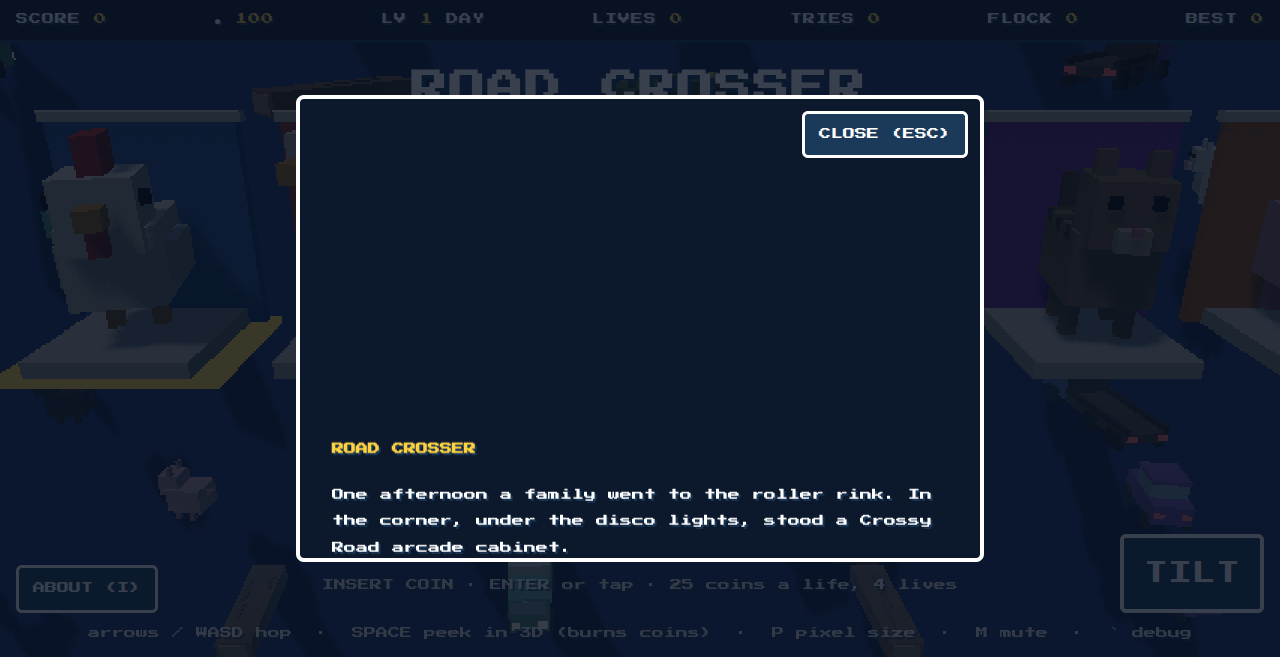
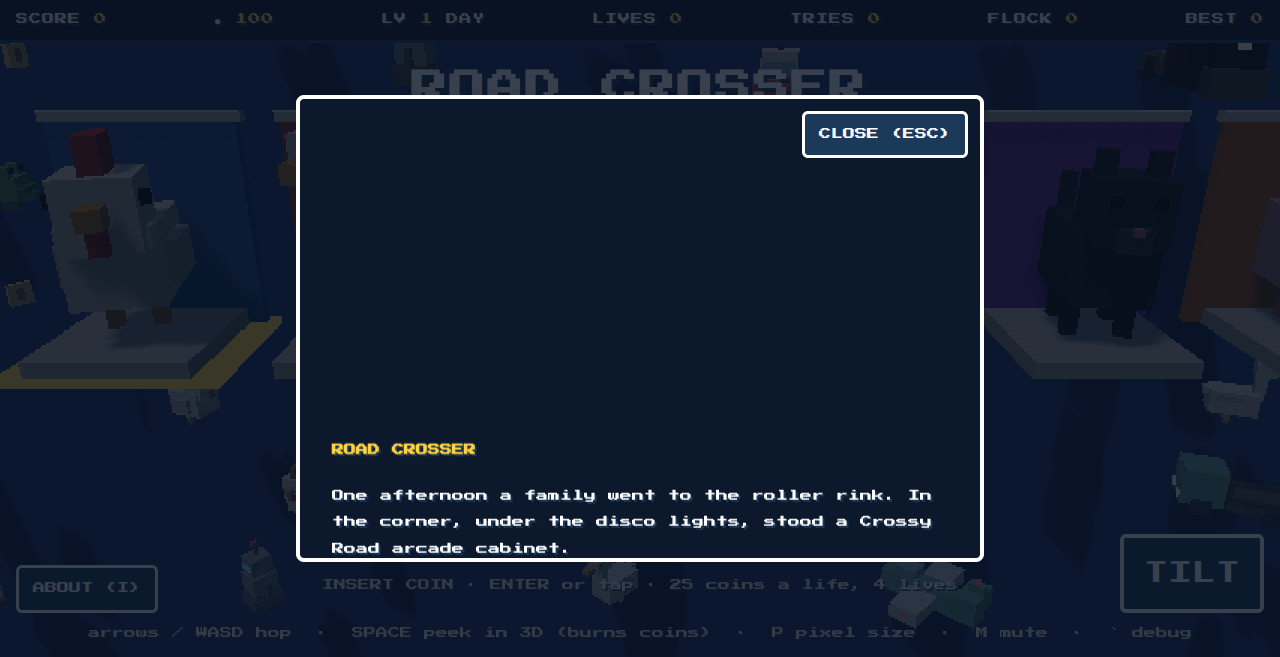
Ground rows span 120 units so tilted views never see past the edge; repeated details bounded to the middle 60

diff --git a/src/scenarios/runway.js b/src/scenarios/runway.js
@@ -3,7 +3,7 @@
 // in from height and roll out. A plane only kills while it is on or near the
 // ground, so a lifting or descending one passes overhead (watch its shadow).
 import { box, makePlane, makeHeadlightCone } from '../meshes.js';
-import { W, SPAN, GW } from '../lane.js';
+import { W, SPAN, DETAIL_W } from '../lane.js';
 import { registerDeath } from '../deaths.js';
 import { CONE } from '../headlights.js';
 import { rand, randInt, pick } from '../util.js';
@@ -46,9 +46,9 @@ export default {
   flank: ['meadow', 'road', 'road', 'river'],   // wings need flat rows either side
   build(lane, { prev, sky, difficulty, gauntlet, level }) {
     lane.ground(0x3e3e46);
-    for (let x = -GW / 2; x < GW / 2; x += 2) lane.add(box(1.1, 0.02, 0.12, 0xe8e8e8, x, 0, 0, false));   // centreline
+    for (let x = -DETAIL_W / 2; x < DETAIL_W / 2; x += 2) lane.add(box(1.1, 0.02, 0.12, 0xe8e8e8, x, 0, 0, false));   // centreline
     if (!prev || prev.scenario.id !== 'runway') {
-      for (let x = -GW / 2; x < GW / 2; x += 2.5) lane.add(box(0.14, 0.1, 0.14, EDGE_LIGHT.blue, x, 0, 0.47, false));
+      for (let x = -DETAIL_W / 2; x < DETAIL_W / 2; x += 2.5) lane.add(box(0.14, 0.1, 0.14, EDGE_LIGHT.blue, x, 0, 0.47, false));
     }
     lane.dir = pick(-1, 1);
     const tr = traffic(difficulty + lane.r / 120);

diff --git a/src/scenarios/rail.js b/src/scenarios/rail.js
@@ -3,7 +3,7 @@
 // trains are slow and puff, diesels are middling, bullet trains are fast.
 // Flat cars and box-car doorways can be ridden; everything else is fatal.
 import { box, makeTrain, makeRailSignal, makeGate, makeHeadlightCone } from '../meshes.js';
-import { W, SPAN, GW } from '../lane.js';
+import { W, SPAN, GW, DETAIL_W } from '../lane.js';
 import { registerDeath } from '../deaths.js';
 import { CONE } from '../headlights.js';
 import { sfx } from '../sfx.js';
@@ -41,7 +41,7 @@ export default {
   keepGap: true,
   build(lane, { sky, difficulty, gauntlet, level }) {
     lane.ground(0x6a645c);
-    for (let x = -GW / 2; x < GW / 2; x += 0.7) lane.add(box(0.3, 0.06, 0.9, 0x5a3d24, x, 0, 0, false));   // sleepers
+    for (let x = -DETAIL_W / 2; x < DETAIL_W / 2; x += 0.7) lane.add(box(0.3, 0.06, 0.9, 0x5a3d24, x, 0, 0, false));   // sleepers
     for (const z of [-0.3, 0.3]) lane.add(box(GW, 0.08, 0.08, 0xb8b8b8, 0, 0.05, z, false));                // rails
     lane.dir = pick(-1, 1);
     const type = pickType(level);

diff --git a/src/scenarios/road.js b/src/scenarios/road.js
@@ -2,7 +2,7 @@
 import { box, makeCar, makeTruck, makeFlatbed, makeHeadlightCone } from '../meshes.js';
 import { registerDeath } from '../deaths.js';
 import { CONE } from '../headlights.js';
-import { W, GW } from '../lane.js';
+import { W, DETAIL_W } from '../lane.js';
 import { rand, randInt, pick } from '../util.js';
 import { traffic, kindsFor, mixesAllowed } from '../tuning.js';
 
@@ -27,7 +27,7 @@ export default {
   build(lane, { prev, sky, difficulty, gauntlet, level }) {
     lane.ground(0x4a4a52);
     if (prev && prev.scenario.id === 'road') {
-      for (let x = -GW / 2; x < GW / 2; x += 1.5) lane.add(box(0.7, 0.02, 0.1, 0xdedede, x, 0, 0.5, false));
+      for (let x = -DETAIL_W / 2; x < DETAIL_W / 2; x += 1.5) lane.add(box(0.7, 0.02, 0.1, 0xdedede, x, 0, 0.5, false));
     }
     lane.dir = pick(-1, 1);
     const tr = traffic(difficulty + lane.r / 120);

diff --git a/src/lane.js b/src/lane.js
@@ -6,7 +6,8 @@ import { sfx } from './sfx.js';
 export const W = 8;          // playable columns run -W..W
 export const SPAN = W + 5;   // movers wrap at ±SPAN
 export const OFF_EDGE = 11.6; // carried this far is off screen and lost
-export const GW = 44;        // ground width
+export const GW = 120;       // ground width: far past any camera edge, even tilted
+export const DETAIL_W = 60;  // repeated details (dashes, stripes, sleepers) only span this
 
 // One board row. Scenarios fill it through these helpers; the board and the
 // player only read the fields (blocked, coins, movers, dir, speed).

diff --git a/src/scenery/parking.js b/src/scenery/parking.js
@@ -1,12 +1,12 @@
 // Asphalt lot: painted bays, a fence line, and parked cars on both sides.
 import { makeFence, makeParkedCar, makeParkingStripe, makeCanopy, makePlanter } from '../meshes.js';
-import { W, GW } from '../lane.js';
+import { W, DETAIL_W } from '../lane.js';
 
 export default {
   id: 'parking',
   ground(lane) {
     lane.ground(0x5a5a62);
-    for (let x = -GW / 2 + 0.5; x < GW / 2; x += 1) lane.add(makeParkingStripe(), x);
+    for (let x = -DETAIL_W / 2 + 0.5; x < DETAIL_W / 2; x += 1) lane.add(makeParkingStripe(), x);
   },
   edge(lane) {
     for (const s of [-1, 1]) {
